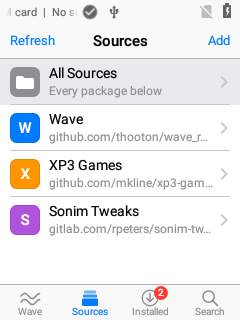
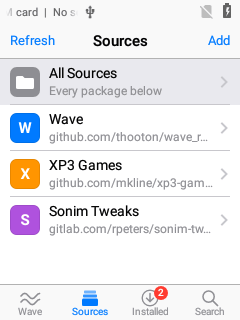
Site: gallery re-shot from Wave 0.7.25; landing says the default source is empty and mods unpublished, mentions the boot watchdog; setup steps name the two import routes

Changed region(s): [[0.0292, 0.0, 0.4083, 0.0625], [0.4375, 0.0, 0.4958, 0.0625]]

diff --git a/site/index.html b/site/index.html
@@ -16,13 +16,13 @@
 <li><figure><img src="assets/screens/details.webp" alt="Details for the app Canvas: a GET button, its size, a description and a What’s New note" width="240" height="320" loading="lazy"><figcaption>A package</figcaption></figure></li>
 <li><figure><img src="assets/screens/installed.webp" alt="Installed: Update All in the bar, and Updates for Charge and Music Improved" width="240" height="320" loading="lazy"><figcaption>Installed</figcaption></figure></li>
 <li><figure><img src="assets/screens/search.webp" alt="Search for “mus”, listing Music Improved and Música" width="240" height="320" loading="lazy"><figcaption>Search</figcaption></figure></li></ul>
-<p class="caption">Screenshots taken on a real Sonim XP3800 running an early debug build of Wave (0.7.12) with sample packages, so the list is an example, not the catalog. The strip at the top is the phone’s own status bar; it shows a USB icon and carrier text because the pictures were taken over USB debugging. Each is 240 × 320 pixels, scaled to fit and reduced to 256 colours to keep the page small.</p></section>
-<section class="catalog"><div class="section-head"><span class="kicker">02 <span>/</span> THE CATALOG</span><h2>Inside the default source</h2><p>The planned collection pairs everyday apps with optional changes to the stock phone.</p></div>
+<p class="caption">Screenshots taken on a real Sonim XP3800 running a debug build of Wave (0.7.25) with sample packages, so the list is an example, not the catalog. The strip at the top is the phone’s own status bar; it shows a USB icon and carrier text because the pictures were taken over USB debugging. Each is 240 × 320 pixels, scaled to fit and reduced to 256 colours to keep the page small.</p></section>
+<section class="catalog"><div class="section-head"><span class="kicker">02 <span>/</span> THE CATALOG</span><h2>Inside the default source</h2><p>The default source is empty today. This is the collection planned for it: everyday apps, and optional changes to the stock phone.</p></div>
 <div class="grid"><article><span class="mark" aria-hidden="true">Aa</span><h3>Read &amp; explore</h3><p>Books, Dictionary, New Yorker, Weather and Places keep reference material within reach.</p></article>
 <article><span class="mark" aria-hidden="true">♫</span><h3>Media &amp; tools</h3><p>Música, Video, List, Print and Serve make room for the things you carry and share.</p></article>
 <article><span class="mark" aria-hidden="true">@</span><h3>Your accounts</h3><p>Mail, Canvas, Charge, Authenticator and Flashcards. Use the <a href="setup/">local setup tool</a> for supported apps.</p></article>
-<article><span class="mark" aria-hidden="true">≡</span><h3>System mods</h3><p>Messages Improved, Launcher Improved and Music Improved change stock apps. Mods take effect after a reboot.</p></article></div></section>
+<article><span class="mark" aria-hidden="true">≡</span><h3>System mods</h3><p>Messages Improved, Launcher Improved and Music Improved change stock apps and are not published yet. Mods take effect after a reboot.</p></article></div></section>
 <section class="row"><span class="kicker">03 <span>/</span> SOURCES</span><div><h2>Publish a collection</h2><p>A source is an HTTPS git repository with a manifest for each package. Keep release binaries at immutable URLs; include their sizes and hashes so Wave can verify each download.</p><div class="links"><a href="https://github.com/thooton/wave/blob/master/docs/source-format.md">Source format ↗</a><a href="https://github.com/thooton/wave/blob/master/docs/publishing.md">Publishing guide ↗</a></div></div></section>
-<section class="row"><span class="kicker">04 <span>/</span> TRUST</span><div><h2>Know who you install from</h2><p>Modules can run as root and read private data. A matching checksum detects a changed download, not a malicious maintainer. A broken module or boot image can stop the phone from starting. Keep personal files and a verified stock backup off the phone.</p><div class="links"><a href="rescue/">Rescue a booting phone →</a><a href="restore/">Check a stock backup →</a></div></div></section>
+<section class="row"><span class="kicker">04 <span>/</span> TRUST</span><div><h2>Know who you install from</h2><p>Modules can run as root and read private data. A matching checksum detects a changed download, not a malicious maintainer. A broken module or boot image can stop the phone from starting. Wave’s boot watchdog restarts once and turns off a module that holds the boot; it was tested on one XP3800 with test modules, so it is no substitute for a backup. Keep personal files and a verified stock backup off the phone.</p><div class="links"><a href="rescue/">Rescue a booting phone →</a><a href="restore/">Check a stock backup →</a></div></div></section>
 <section class="row"><span class="kicker">05 <span>/</span> COMMUNITY</span><div><h2>Made for a phone with keys</h2><p>Wave takes its cue from Cydia. Thanks to anonymousfliphones and flipphoneguy of the JTech Forums community for their XP3 research, and to the <a href="https://github.com/topjohnwu/Magisk">Magisk</a> project.</p><a href="https://github.com/thooton/wave">Follow development on GitHub ↗</a></div></section></main>
 <footer><div class="wrap foot"><span>Wave for the Sonim XP3800</span><a href="https://github.com/thooton/wave/issues">Report a problem ↗</a></div></footer></body></html>

diff --git a/site/setup/index.html b/site/setup/index.html
@@ -28,7 +28,7 @@
 </section>
 <p class="notice"><strong>The download may contain live credentials in plain text.</strong> Don’t share it or sync it to a shared drive. Delete your computer’s copy after the import.</p>
 <h2>Import on the phone</h2>
-<ol><li>Open the app once to find its setup screen. Use a version that supports setup-file import.</li><li>Connect the phone in File transfer mode and copy the download to <strong>Download</strong><span id="folder-wrap" hidden> or <code id="folder"></code></span>.</li><li>In the app’s setup screen, choose the file and confirm the import. If the app couldn’t delete the source file, remove it from shared storage yourself.</li></ol>
+<ol><li>Open the app once to find its setup screen. Use a version that supports setup-file import.</li><li>Connect the phone in File transfer mode and copy the download to <strong>Download</strong><span id="folder-wrap" hidden> or <code id="folder"></code></span>.</li><li>In the app’s setup screen, choose <strong>Import setup file</strong> (it reads the app’s own folder) or <strong>Choose a file…</strong> (pick it from Download), then confirm the import. If the app couldn’t delete the source file, remove it from shared storage yourself.</li></ol>
 <p>This version uses files, not QR codes.</p>
 </main>
 <footer><div class="wrap foot"><span>Wave for the Sonim XP3800</span><a href="https://github.com/thooton/wave/issues">Report a problem ↗</a></div></footer></body></html>

diff --git a/docs/status.md b/docs/status.md
@@ -37,7 +37,7 @@ exists (see Known gaps).
 | Area | Implemented | Verified | Not verified, and why |
 | :--- | :--- | :--- | :--- |
 | Landing ([10](tasks/10-site-pages.md), local complete) | Landing, USB platform notes, Pages build; no JavaScript, 56 kB with five real phone screenshots (43.8 kB gzip) | Strict HTML parse, link and size checks; keyboard-only and 240x320 in Chromium; `node --test site/tests/*.test.mjs site/src/protocols/tests/*.test.mjs` 14 pass | Not hosted: Pages must be enabled by the owner |
-| Setup generator (10) | Setup files for all six apps, made in the browser | Downloads for all six parse in the apps' `Config.parse`; `sync_setup.py --check` agrees with P's descriptors. On the rooted phone, all six files generated by the real `/setup/` page in headless Chromium were imported with the d-pad only into side-by-side `.wavetest` copies; each opened configured and didn't ask again after a force-stop and relaunch, the setup file was owner-only and the copy on shared storage was deleted. The owner's six installed packages were untouched (same path, version and update time before and after). Evidence in the [work notes](tasks/README.md#work-notes) (brief 10) | Android's "Choose a file..." picker (not drivable by d-pad), a real backend (the hosts in the files don't resolve, so Mail and Canvas show their offline messages after import), source QR creation (no camera validation), and the owner's own copies, which were deliberately not touched |
+| Setup generator (10) | Setup files for all six apps, made in the browser | Downloads for all six parse in the apps' `Config.parse`; `sync_setup.py --check` agrees with P's descriptors. On the rooted phone, all six files generated by the real `/setup/` page in headless Chromium were imported with the d-pad only into side-by-side `.wavetest` copies; each opened configured and didn't ask again after a force-stop and relaunch, the setup file was owner-only and the copy on shared storage was deleted. Android's "Choose a file..." route (stock Files picker, file in Download) also works with the d-pad on all six (`tools/qa/setup/`). The owner's six installed packages were untouched (same path, version and update time before and after). Evidence in the [work notes](tasks/README.md#work-notes) (brief 10) | a real backend (the hosts in the files don't resolve, so Mail and Canvas show their offline messages after import), source QR creation (no camera validation), and the owner's own copies, which were deliberately not touched |
 | Guide ([09](tasks/09-site-jailbreak.md), open) | Device guide, Rescue for already-rooted phones, adb over WebUSB | adb protocol over libusb with an authorized key ([jailbreak.md](jailbreak.md#verification)). Rescue, built, in headless Chromium over real WebUSB on the rooted phone: it listed a marker module (pending and active), disabled it (the next boot ran no `service.sh`), rebooted the phone and listed it again after re-enable; Magisk's policy table never changed. That run found and fixed a false error after a successful reboot (`7d750d3`: the disconnect is taken as success) | The guide has never rooted a phone: the owner's root was done by hand over EDL. The browser's device chooser, the first RSA prompt and the Shell prompt weren't seen (the harness granted the device by policy and used an authorized key), nor Volume Down safe mode. Writing a boot back from the browser and Windows driver binding are untried (decisions open item 5) |
 | Backup | Read and check the boot partition over EDL in the browser; **left out of the public build** (`build.py --with-device-backup` adds it) | Headless Chromium on the real phone read all of `boot`, and its SHA-256 matched two desktop EDL reads; the Restore page checks a backup | Linux and Chromium only. Writing it back has not been tried |
 

diff --git a/site/AGENTS.md b/site/AGENTS.md
@@ -9,7 +9,7 @@ mouse. Distinguish illustrated screens, planned packages and unverified steps
 from shipped/tested behavior.
 
 - `index.html`, `assets/`: public landing, shared visual assets and styles.
-  `assets/screens/*.webp` are real XP3800 screenshots (240x320, Wave 0.7.12 debug build with
+  `assets/screens/*.webp` are real XP3800 screenshots (240x320, Wave 0.7.25 debug build with
   sample packages) from `mockups/phone/`, made by `python3 site/scripts/screens.py` (256-colour
   palette, lossless WebP; the script fails if a screen changes too much, `--check` verifies the
   committed files). Say they are screenshots with sample data; never describe them as designs or

diff --git a/site/mockups/CHECKLIST.md b/site/mockups/CHECKLIST.md
@@ -24,6 +24,9 @@ items about 32px); fixture icons are lettered tiles where the mockups have
 the apps' art; the section's menu says Refresh Sources. `phone/x-*.png` are extra
 states with no frame (Remove's confirm, Reboot Now? on Later).
 
+Five frames (wave-home, sources, details-get, installed, search-results: the landing page's gallery) were
+re-shot the same way on Wave 0.7.25 (`23a67de`, debug build, fixture `browse`); the rest above are still 0.7.12.
+
 Ten of them are real data from the rooted phone instead (Wave 0.7.20 at
 `15dc337`, Magisk 24.0): no-root, details-module, queue-confirm,
 queue-progress, queue-reboot, wave-home-reboot, installed-reboot,
